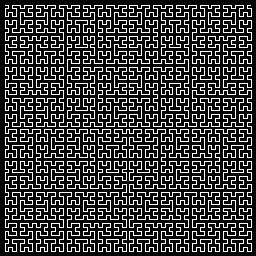
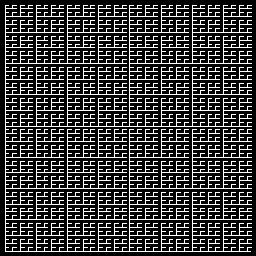
feat: use BMI2 instructions

diff --git a/src/lib.rs b/src/lib.rs
@@ -41,6 +41,23 @@
 
 use core::convert::{From, TryInto};
 use core::ops::{BitAnd, BitOr, BitOrAssign, Shl, ShlAssign, Shr, ShrAssign};
+use bitintr::Pext ;
+
+// #[target_feature(enable = "bmi2")]
+#[inline]
+pub fn h2xy<T: Unsigned>(value: <T as Unsigned>::Key, _order: u8) -> (T, T) {
+    let y = value.pext(T::MASK_ODD).as_half();
+    let x = value.pext(T::MASK_EVEN).as_half();
+    (x,y)
+    // unsafe {
+    //     core::arch::asm! {
+    //         "pext {0}, {1}, {2}",
+    //         out(reg) x,
+    //         in(reg) value,
+    //         in(reg) mask_odd_bits,
+    //         options(pure, nomem, nostack)
+    //     }
+}
 
 pub trait UnsignedBase:
     From<u8>
@@ -88,41 +105,78 @@ macro_rules! base_impl {
     };
 }
 
-base_impl!(u128);
+// base_impl!(u128);
 base_impl!(u64);
 base_impl!(u32);
 base_impl!(u16);
 base_impl!(u8);
 
+pub trait KeyWithHalf: Copy {
+    type Value;
+    fn as_half(self) -> Self::Value;
+}
+
+impl KeyWithHalf for u64 {
+    type Value = u32;
+    #[inline]
+    fn as_half(self) -> Self::Value {
+        self as Self::Value
+    }
+}
+
+impl KeyWithHalf for u32 {
+    type Value = u16;
+    #[inline]
+    fn as_half(self) -> Self::Value {
+        self as Self::Value
+    }
+}
+
+impl KeyWithHalf for u16 {
+    type Value = u8;
+    #[inline]
+    fn as_half(self) -> Self::Value {
+        self as Self::Value
+    }
+}
+
 /// Unsigned integer input type which has a double value type as key
 pub trait Unsigned: UnsignedBase
 where
-    Self::Key: UnsignedBase,
+    Self::Key: UnsignedBase + Pext + KeyWithHalf<Value = Self>,
 {
     type Key; // Double the self unsigned type
     const SEVEN: Self; // Pattern needed for computation
     const SIXTY_THREE: Self::Key; // Pattern needed for computation
+    const MASK_ODD: Self::Key;
+    const MASK_EVEN: Self::Key;
 }
 
-impl Unsigned for u64 {
-    type Key = u128;
-    const SEVEN: Self = 7;
-    const SIXTY_THREE: Self::Key = 63;
-}
+// impl Unsigned for u64 {
+//     type Key = u128;
+//     const SEVEN: Self = 7;
+//     const SIXTY_THREE: Self::Key = 63;
+// }
 impl Unsigned for u32 {
     type Key = u64;
     const SEVEN: Self = 7;
     const SIXTY_THREE: Self::Key = 63;
+    const MASK_ODD: Self::Key = 0xAAAAAAAA_AAAAAAAA; // 101010... pattern
+    const MASK_EVEN: Self::Key = 0x55555555_55555555; // 010101... pattern
 }
 impl Unsigned for u16 {
     type Key = u32;
     const SEVEN: Self = 7;
     const SIXTY_THREE: Self::Key = 63;
+    const MASK_ODD: Self::Key = 0xAAAAAAAA; // 101010... pattern
+    const MASK_EVEN: Self::Key = 0x55555555; // 010101... pattern
 }
 impl Unsigned for u8 {
     type Key = u16;
     const SEVEN: Self = 7;
     const SIXTY_THREE: Self::Key = 63;
+    const MASK_ODD: Self::Key = 0xAAAA; // 101010... pattern
+    const MASK_EVEN: Self::Key = 0x5555; // 010101... pattern
 }
 
 /// Convert form 2D to 1D hilbert space.
@@ -210,7 +264,7 @@ pub fn xy2h<T: Unsigned>(x: T, y: T, order: u8) -> <T as Unsigned>::Key {
 /// assert_eq!(x, 1u64);
 /// assert_eq!(y, 0u64);
 ///```
-pub fn h2xy<T: Unsigned>(h: <T as Unsigned>::Key, order: u8) -> (T, T) {
+pub fn h2xy_old<T: Unsigned>(h: <T as Unsigned>::Key, order: u8) -> (T, T) {
     // Mapping from hilbert states to 2D coordinates
     // SHHH => SXXXYYY
     //   8 bit => 8 bit
@@ -375,26 +429,18 @@ mod tests {
     #[test]
     fn h2xy_one_bit() {
         let h2xy = h2xy::<u8>;
-        let (x0, y0) = h2xy(0, 1);
-        let (x1, y1) = h2xy(1, 1);
-        let (x2, y2) = h2xy(2, 1);
-        let (x3, y3) = h2xy(3, 1);
-        assert_eq!((x0, y0), (0, 0));
-        assert_eq!((x1, y1), (0, 1));
-        assert_eq!((x2, y2), (1, 1));
-        assert_eq!((x3, y3), (1, 0));
+        assert_eq!(h2xy(0, 1), (0, 0));
+        assert_eq!(h2xy(1, 1), (0, 1));
+        assert_eq!(h2xy(2, 1), (1, 1));
+        assert_eq!(h2xy(3, 1), (1, 0));
     }
 
     #[test]
     fn xy2h_one_bit() {
-        let d0 = xy2h(0u64, 0, 1);
-        let d1 = xy2h(0u64, 1, 1);
-        let d2 = xy2h(1u64, 0, 1);
-        let d3 = xy2h(1u64, 1, 1);
-        assert_eq!(d0, 0);
-        assert_eq!(d1, 1);
-        assert_eq!(d2, 3);
-        assert_eq!(d3, 2);
+        assert_eq!(xy2h(0u32, 0, 1), 0);
+        assert_eq!(xy2h(0u32, 1, 1), 1);
+        assert_eq!(xy2h(1u32, 0, 1), 3);
+        assert_eq!(xy2h(1u32, 1, 1), 2);
     }
 
     #[test]
